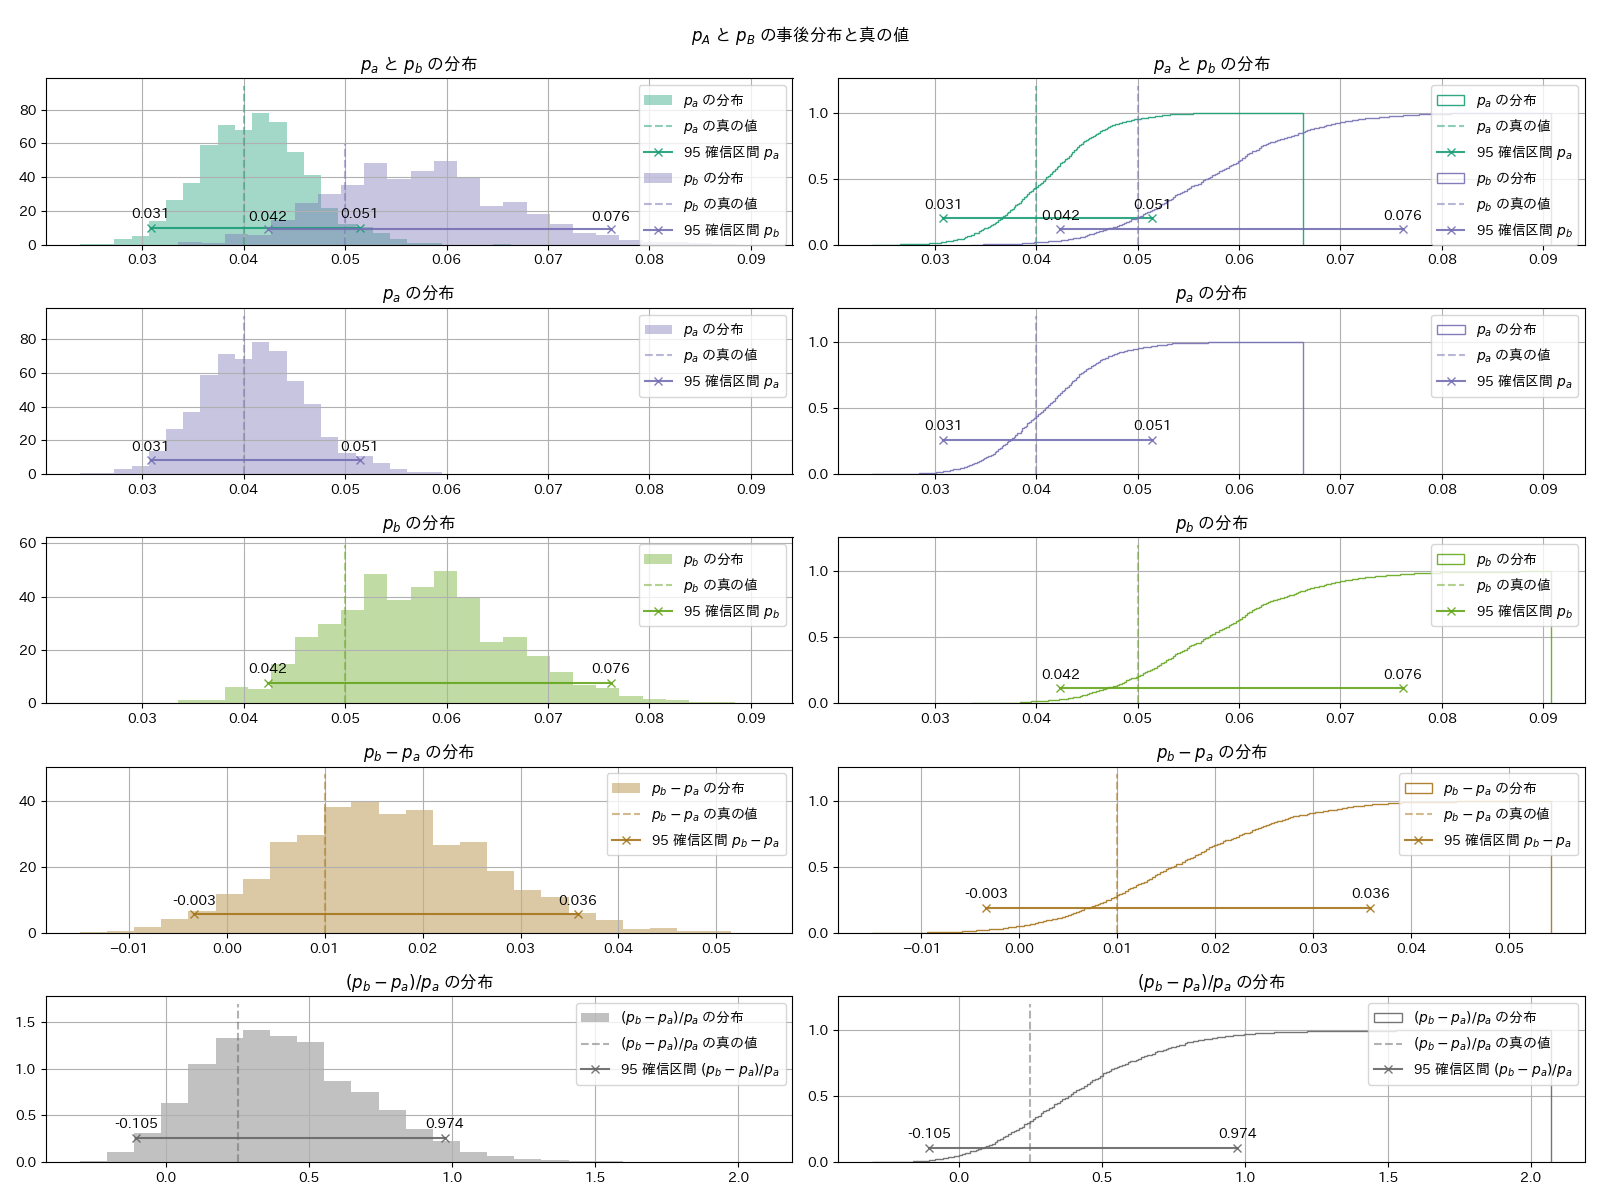
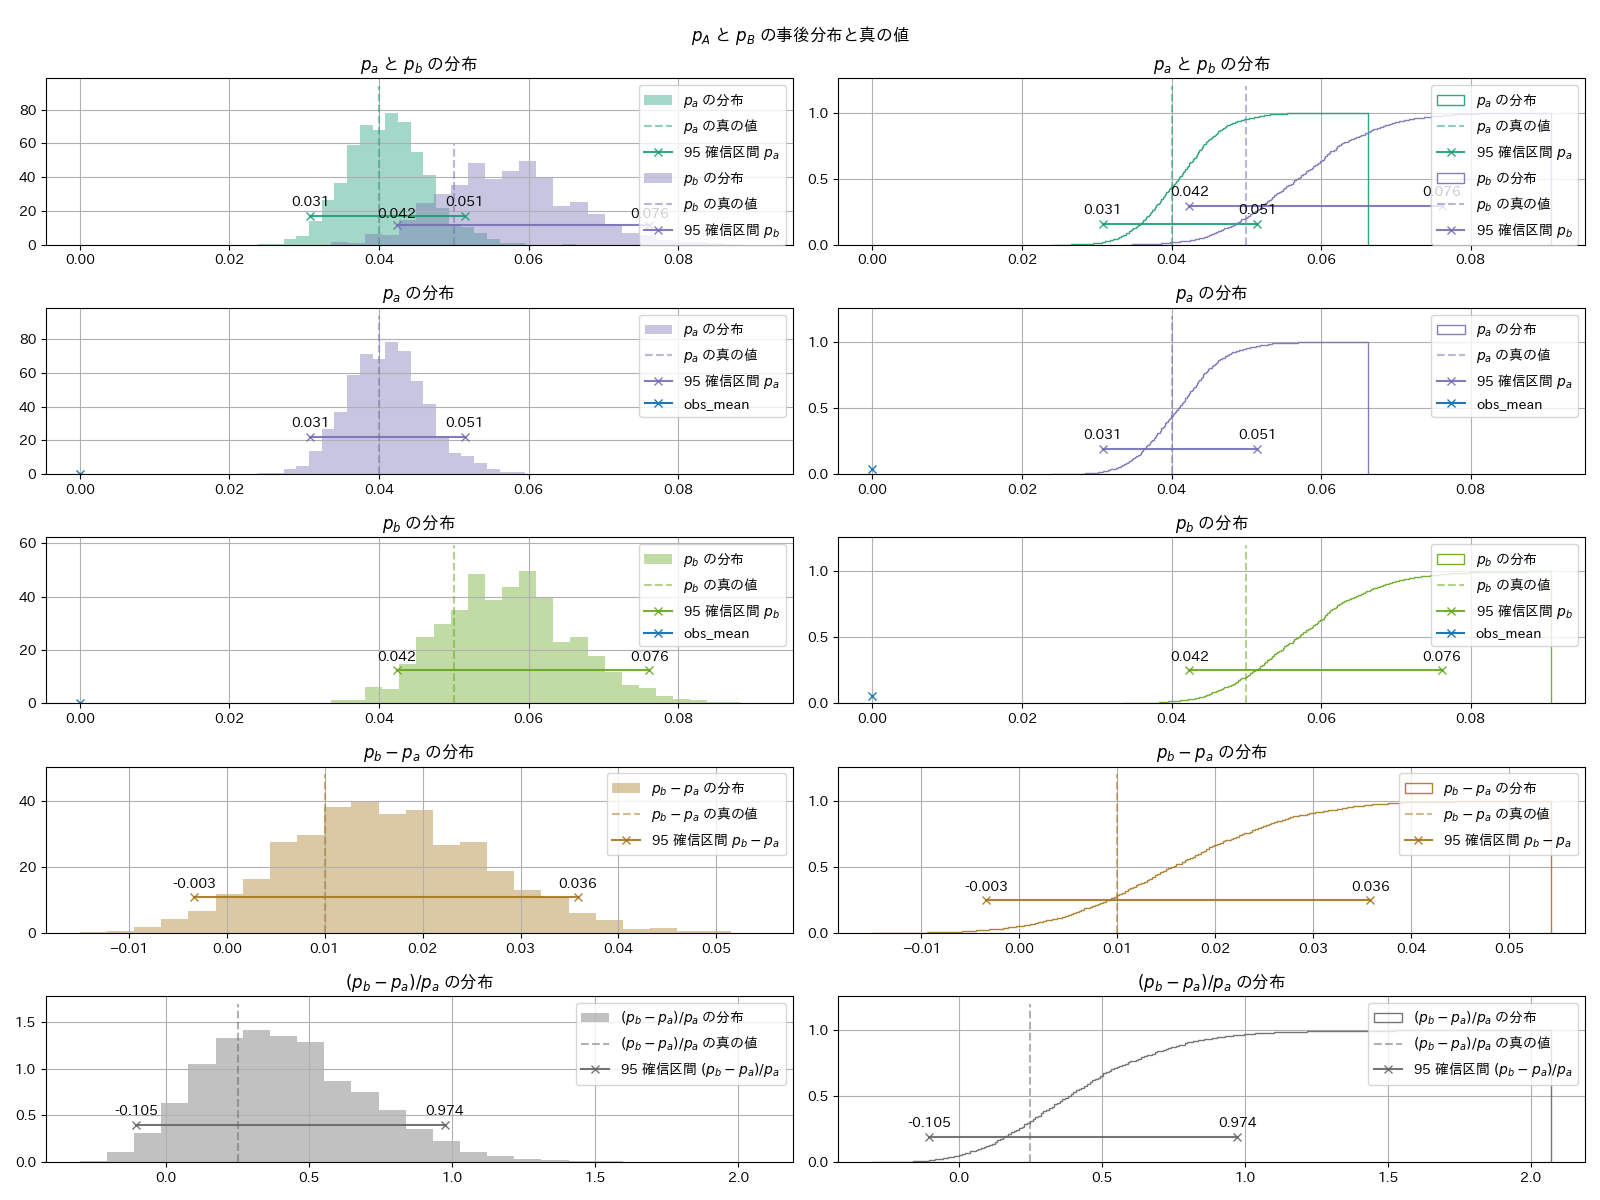
[update] modify carts

diff --git a/src/visualization/visualize.py b/src/visualization/visualize.py
@@ -192,7 +192,7 @@ def plot_distribution(p_a_true, p_b_true, trace, metrics) -> mpl.figure.Figure:
             **options,
         )
         axes[2 + offset].plot(
-            metrics["obs_a"]["obs_mean"], marker="x", label="obs_mean"
+            metrics["obs_a"]["obs_mean"], 0, marker="x", label="obs_mean"
         )
         plot_histogram_single(
             axes[4 + offset],
@@ -203,7 +203,7 @@ def plot_distribution(p_a_true, p_b_true, trace, metrics) -> mpl.figure.Figure:
             **options,
         )
         axes[4 + offset].plot(
-            metrics["obs_b"]["obs_mean"], marker="x", label="obs_mean"
+            metrics["obs_b"]["obs_mean"], 0, marker="x", label="obs_mean"
         )
         plot_histogram_single(
             axes[6 + offset],
